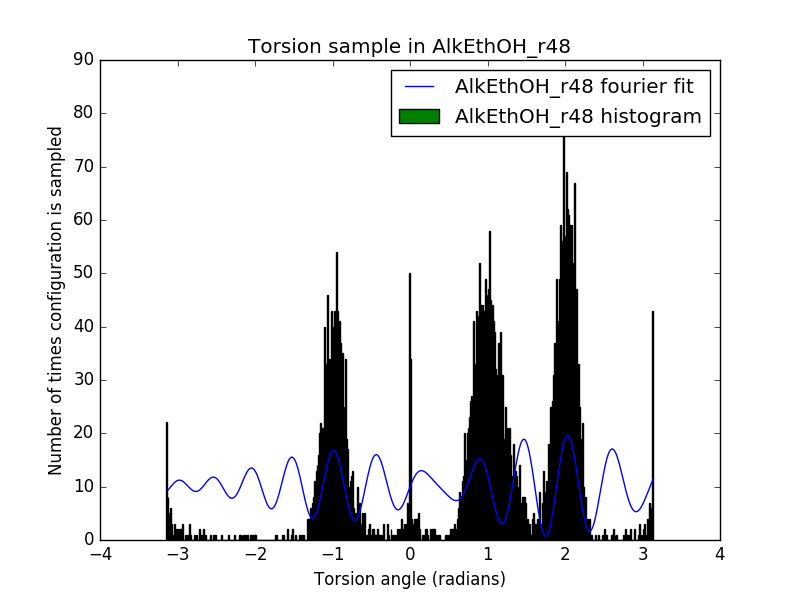
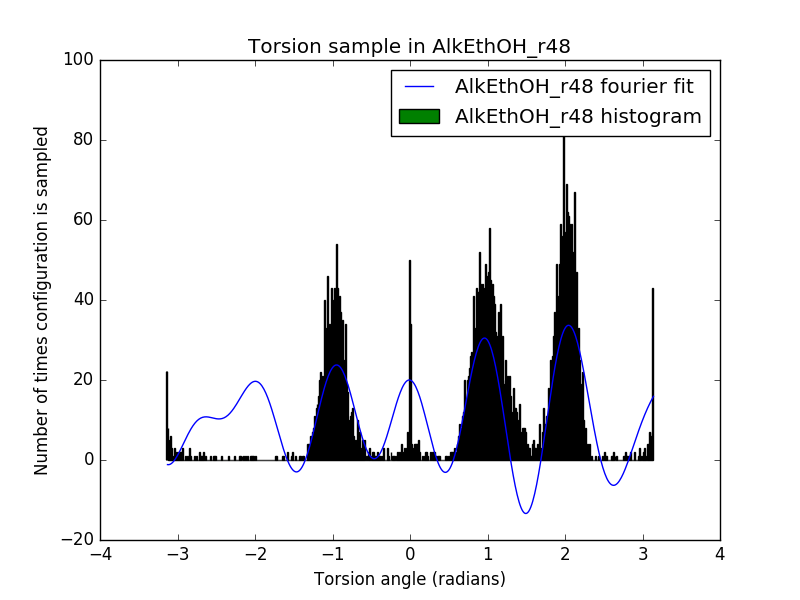
alter fourier params

diff --git a/single-molecule-property-generation/least_squares_fit_example.py b/single-molecule-property-generation/least_squares_fit_example.py
@@ -513,7 +513,7 @@ plt.figure()
 #	if j==0.:
 #           n1[i]=5.
 
-popt, pcov = sci.curve_fit(fourier, bins1[1:], n1, [5.0,1.0,0.5]*3 , maxfev=100000)
+popt, pcov = sci.curve_fit(fourier, bins1[1:], n1, [5.0,3.0,2.0]*3 , maxfev=100000)
 plt.plot(bins1[1:],fourier(bins1[1:],*popt),label='AlkEthOH_r48 fourier fit')
 plt.ylabel('Number of times configuration is sampled')
 plt.xlabel('Torsion angle (radians)')
